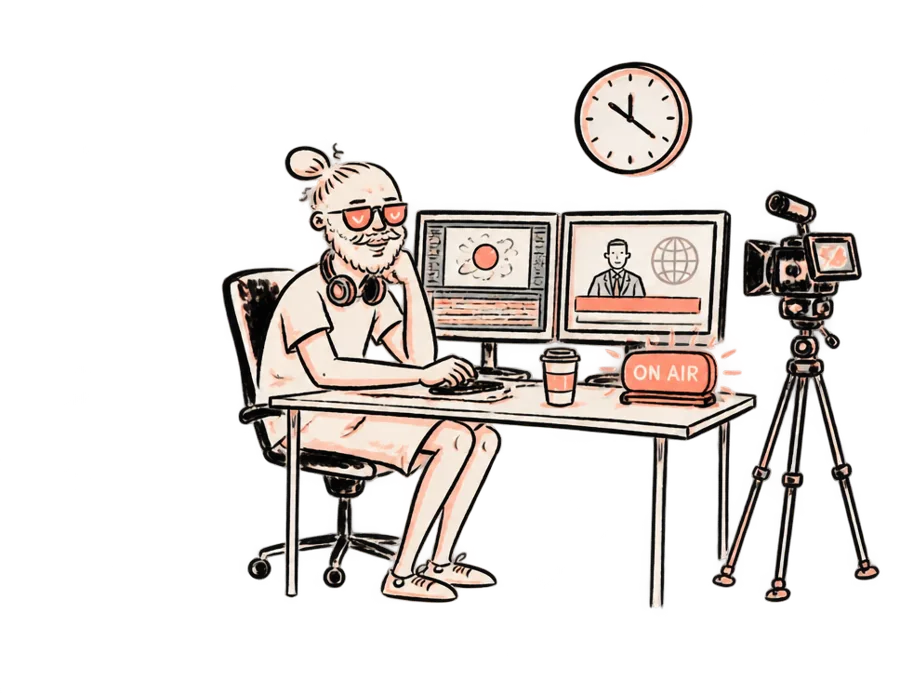
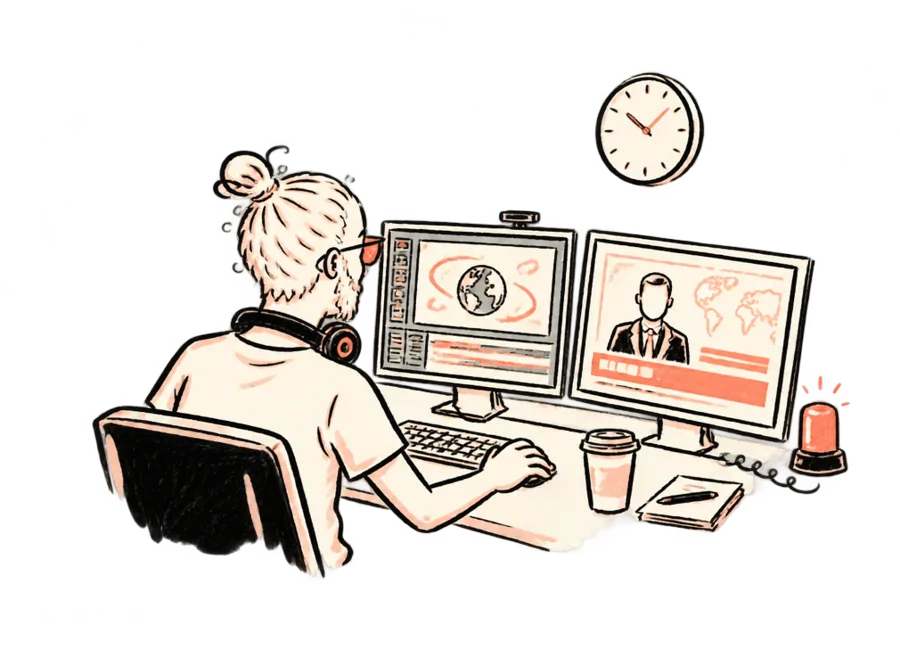
Experience as a comic with five characters (incl. the father), natural-view panels, sketchbook boards behind showcases, beige behind characters
Claude-Session: https://claude.ai/code/session_01FZ78mSfeXmiaoVRiho82hm

diff --git a/src/app/components/story/ExperienceComic.tsx b/src/app/components/story/ExperienceComic.tsx
@@ -1,0 +1,129 @@
+/*
+ * Experience as a comic. Five characters, all Ala'a: the designer, the teacher,
+ * the consultant, the content creator and the father. Pick one from the cast
+ * and read that character's storyline as comic panels along a drawn road.
+ */
+import { useState } from "react";
+import { AnimatePresence, motion } from "motion/react";
+import { useMode } from "../ModeContext";
+import { professionalTimelines, funTimelines, type TabKey, type TimelineEntry } from "../WorkExperienceSection";
+import { Journey } from "./Journey";
+import { Scribble } from "../ui/Kit";
+import { RoughBox } from "../ui/RoughBox";
+import charDesigner from "../../../assets/cast/designer.webp";
+import charTeacher from "../../../assets/cast/teacher.webp";
+import charConsultant from "../../../assets/cast/consultant.webp";
+import charCreator from "../../../assets/cast/creator.webp";
+import charFather from "../../../assets/cast/father.webp";
+
+type CastKey = TabKey | "father";
+
+const CAST: { k: CastKey; img: string; color: string; name: [string, string]; role: [string, string]; line: [string, string] }[] = [
+  { k: "main", img: charDesigner, color: "#ff614c", name: ["the designer", "the designer"], role: ["UX/UI, 15+ years, MENA", "pushes pixels for money"], line: ["Every product I touched, from couches to dashboards.", "From couches to dashboards. Long story. Six panels."] },
+  { k: "teaching", img: charTeacher, color: "#6A4CFF", name: ["the teacher", "the teacher"], role: ["universities, bootcamps, Zain, 42 Amman", "talks at people, professionally"], line: ["If I can't draw it for a room of beginners, I don't understand it yet.", "Sometimes they clap. Sometimes they want the Figma shortcuts."] },
+  { k: "consulting", img: charConsultant, color: "#53B858", name: ["the consultant", "the consultant"], role: ["audits, strategy, second opinions", "tells you what's wrong (nicely)"], line: ["Three things that matter, said kindly, then fixed together.", "You built a thing. Something feels off. I find it. I'm sorry in advance."] },
+  { k: "content", img: charCreator, color: "#FF4C79", name: ["the content creator", "the content creator"], role: ["@alaa_aliens, Ftoor Designer podcast", "draws UX jokes at 2am"], line: ["Hand-drawn UX explainers, and a podcast that made the top ten.", "Doodles that explain UX. It's therapy, honestly. For me."] },
+  { k: "father", img: charFather, color: "#FFC53D", name: ["the father", "the dad"], role: ["Alma & Eleen's product team", "two clients, zero budget"], line: ["My two toughest users. Everything I build at home is for them.", "They don't do UX feedback. They just say \"boring\" and leave."] },
+];
+
+const FATHER: Record<"pro" | "fun", { year: string; tag: string; title: string; description: string }[]> = {
+  pro: [
+    { year: "2026", tag: "Siba", title: "A study buddy with a face", description: "Textbook photos become parent-checked lessons, games and quizzes. A character, a voice, and a parent who always has the last word." },
+    { year: "2026", tag: "Siba List", title: "The allowance app", description: "Points instead of checkmarks, proof in the app, a timer for piano, and a Friday that stopped being an argument." },
+    { year: "2022", tag: "YES JO + Zain", title: "Teaching kids to design", description: "A yearly product design program for kids. Theirs are the most honest reviews I get." },
+    { year: "before", tag: "Dad", title: "Two daughters, two testers", description: "Alma plays the piano, Eleen plays guitar. Both review my work harder than any client." },
+  ],
+  fun: [
+    { year: "2026", tag: "Siba", title: "The study buddy", description: "Built them an app that says their names and never shows a red X. Alma asked if it could do her homework instead." },
+    { year: "2026", tag: "Siba List", title: "The allowance negotiations", description: "Points, a ladder, a free pass a week. Alma wanted a better exchange rate. Talks are ongoing." },
+    { year: "2022", tag: "YES JO + Zain", title: "Kids' design guru", description: "Taught kids product design. They're now better at Figma than most adults I know." },
+    { year: "before", tag: "Dad", title: "The two clients", description: "Alma on piano, Eleen on guitar, both on my case. Zero budget. Infinite scope." },
+  ],
+};
+
+function entries(k: CastKey, pro: boolean): TimelineEntry[] {
+  if (k === "father") return FATHER[pro ? "pro" : "fun"];
+  const t = (pro ? professionalTimelines : funTimelines)[k];
+  return [...t.leftEntries, ...t.rightEntries].sort((a, b) => Number(b.year) - Number(a.year));
+}
+
+export function ExperienceComic() {
+  const { isProfessional } = useMode();
+  const k = isProfessional ? 0 : 1;
+  const [who, setWho] = useState<CastKey>("main");
+  const c = CAST.find((x) => x.k === who)!;
+  const stops = entries(who, isProfessional).map((e) => ({ date: e.year, title: e.title, body: `${e.tag} · ${e.description}` }));
+
+  return (
+    <div className="flex flex-col gap-10 md:gap-14">
+      {/* the cast */}
+      <div>
+        <Scribble className="mb-3">{isProfessional ? "the cast (it's all me). pick one." : "the cast. all me. pick your fighter."}</Scribble>
+        <div className="grid grid-cols-3 sm:grid-cols-5 gap-3 md:gap-5" role="tablist">
+          {CAST.map((m, i) => {
+            const on = m.k === who;
+            return (
+              <motion.button
+                key={m.k}
+                role="tab"
+                aria-selected={on}
+                onClick={() => setWho(m.k)}
+                whileHover={{ y: -6, rotate: i % 2 ? 1.5 : -1.5 }}
+                whileTap={{ scale: 0.95 }}
+                animate={{ scale: on ? 1 : 0.94, opacity: on ? 1 : 0.7 }}
+                className="relative text-left"
+              >
+                <RoughBox fill={on ? `${m.color}2a` : "#fffaf1"} stroke={on ? m.color : "#1d1a17"} strokeWidth={on ? 2 : 1.2} radius={12} seed={i * 19 + 2} className="p-2 md:p-3 flex flex-col items-center gap-1.5">
+                  <img src={m.img} alt="" draggable={false} className="w-full aspect-square object-contain" />
+                  <span className="font-display lowercase text-[16px] md:text-[20px] leading-none text-center" style={{ color: on ? m.color : "#1d1a17" }}>{m.name[k]}</span>
+                  <span className="hidden sm:block font-['Work_Sans'] text-[10.5px] md:text-[11.5px] text-black/55 text-center leading-tight">{m.role[k]}</span>
+                </RoughBox>
+                {on && (
+                  <motion.span layoutId="cast-pick" className="absolute -top-2 -right-2 w-6 h-6 rounded-full border border-black bg-[#fffaf1] text-[12px] flex items-center justify-center" transition={{ type: "spring", stiffness: 400, damping: 24 }}>
+                    ★
+                  </motion.span>
+                )}
+              </motion.button>
+            );
+          })}
+        </div>
+      </div>
+
+      {/* the character's page */}
+      <AnimatePresence mode="wait">
+        <motion.section
+          key={who}
+          initial={{ opacity: 0, y: 24 }}
+          animate={{ opacity: 1, y: 0 }}
+          exit={{ opacity: 0, y: -16 }}
+          transition={{ duration: 0.35, ease: [0.22, 1, 0.36, 1] }}
+        >
+          <div className="grid md:grid-cols-[220px_1fr] gap-6 md:gap-10 items-center mb-12 md:mb-16">
+            <motion.img
+              src={c.img}
+              alt=""
+              className="w-[180px] md:w-[220px] mx-auto"
+              initial={{ scale: 0.7, rotate: -8 }}
+              animate={{ scale: 1, rotate: [-3, 3, -3] }}
+              transition={{ scale: { type: "spring", stiffness: 200, damping: 14 }, rotate: { duration: 4, repeat: Infinity, ease: "easeInOut" } }}
+            />
+            <div>
+              <h2 className="font-display lowercase text-[44px] md:text-[72px] leading-[0.95]" style={{ color: c.color }}>{c.name[k]}</h2>
+              <p className="font-['Work_Sans'] uppercase tracking-[0.16em] text-[12px] text-black/50 mt-2">{c.role[k]}</p>
+              <motion.p
+                initial={{ scale: 0, rotate: -6 }}
+                animate={{ scale: 1, rotate: -1.5 }}
+                transition={{ delay: 0.25, type: "spring", stiffness: 300, damping: 14 }}
+                className="relative inline-block mt-5 max-w-[520px] rounded-[18px] border-2 border-[#1d1a17] bg-white px-5 py-3 font-['Shantell_Sans',cursive] text-[16px] md:text-[18px] leading-snug shadow-[3px_3px_0_0_#1d1a17]"
+              >
+                {c.line[k]}
+                <span aria-hidden className="absolute -left-2.5 top-6 w-4 h-4 bg-white border-l-2 border-b-2 border-[#1d1a17] rotate-45" />
+              </motion.p>
+            </div>
+          </div>
+          <Journey stops={stops} color={c.color} />
+        </motion.section>
+      </AnimatePresence>
+    </div>
+  );
+}

diff --git a/src/app/components/Phone.tsx b/src/app/components/Phone.tsx
@@ -1,5 +1,6 @@
 import { AnimatePresence, motion, useScroll, useTransform } from "motion/react";
 import { useEffect, useRef, useState } from "react";
+import { StickerArt } from "./play/Stickers";
 
 /** A simple phone frame around a screenshot. */
 export function Phone({ src, alt, className = "" }: { src: string; alt: string; className?: string }) {
@@ -27,9 +28,10 @@ export function PhoneFan({ shots, color }: { shots: { src: string; alt: string }
   return (
     <div
       ref={ref}
-      className="relative w-full overflow-hidden rounded-[10px] border border-black/10 py-10 md:py-16"
-      style={{ background: `radial-gradient(120% 90% at 50% 100%, ${color}40, ${color}12 60%, transparent)` }}
+      className="relative w-full overflow-hidden rounded-[18px] border border-dashed border-black/30 bg-[#fffaf1]/60 py-10 md:py-16"
+      style={{ backgroundImage: "repeating-linear-gradient(transparent 0 31px, rgba(29,26,23,.08) 31px 32px)" }}
     >
+      <Pins color={color} />
       <div className="relative mx-auto flex items-end justify-center gap-0 w-full max-w-[860px] px-4">
         {a && (
           <motion.div style={{ rotate: rotL, x: xL }} className="w-[30%] max-w-[240px] origin-bottom-right translate-y-6">
@@ -82,12 +84,23 @@ export function PhoneRow({ shots }: { shots: { src: string; alt: string; caption
   );
 }
 
+/** A few doodles pinned in the corners of a showcase board. */
+function Pins({ color }: { color: string }) {
+  return (
+    <>
+      <span aria-hidden className="absolute left-4 top-4 rotate-[-12deg]"><StickerArt kind="star" size={30} /></span>
+      <span aria-hidden className="absolute right-5 top-6 rotate-[10deg]"><StickerArt kind="bolt" size={28} /></span>
+      <svg aria-hidden className="absolute right-6 bottom-5 w-[90px] h-[26px]" viewBox="0 0 90 26" fill="none"><path d="M3 18 C 25 4, 50 24, 86 8" stroke={color} strokeWidth="3" strokeLinecap="round" /></svg>
+    </>
+  );
+}
+
 /* ───────────── Desktop products ───────────── */
 
 /** A browser-window frame around a desktop screenshot. */
 export function Browser({ src, alt, className = "", url }: { src: string; alt: string; className?: string; url?: string }) {
   return (
-    <div className={`relative rounded-[10px] md:rounded-[14px] border border-[#1d1a17] bg-[#fffaf1] overflow-hidden shadow-[4px_4px_0_0_#1d1a17] ${className}`}>
+    <div className={`relative rounded-[10px] md:rounded-[14px] border border-[#1d1a17] bg-[#fffaf1] overflow-hidden ${className}`}>
       <div className="flex items-center gap-2 px-3 h-7 md:h-8 border-b-2 border-[#1d1a17] bg-[#fdecd0]">
         <span className="flex gap-1.5" aria-hidden>
           <i className="block w-2.5 h-2.5 rounded-full border-[1.5px] border-[#1d1a17] bg-[#ff614c]" />
@@ -118,8 +131,8 @@ export function BrowserShowcase({ shots, color, url }: { shots: { src: string; a
   const tabName = (s: { alt: string; tab?: string }, k: number) => s.tab ?? s.alt.split(":")[0].replace(/^[^ ]+ /, "").trim() ?? `screen ${k + 1}`;
   return (
     <div
-      className="relative w-full rounded-[10px] pt-8 md:pt-12 px-3 md:px-10 pb-0"
-      style={{ background: `radial-gradient(120% 90% at 50% 100%, ${color}40, ${color}12 60%, transparent)` }}
+      className="relative w-full rounded-[18px] border border-dashed border-black/30 border-b-0 bg-[#fffaf1]/60 pt-8 md:pt-12 px-3 md:px-10 pb-0 overflow-hidden"
+      style={{ backgroundImage: "repeating-linear-gradient(transparent 0 31px, rgba(29,26,23,.08) 31px 32px)" }}
       onMouseEnter={() => setPaused(true)}
       onMouseLeave={() => setPaused(false)}
     >

diff --git a/src/app/pages/ExperiencePage.tsx b/src/app/pages/ExperiencePage.tsx
@@ -1,7 +1,7 @@
 import { motion } from "motion/react";
 import { useMode } from "../components/ModeContext";
 import { DoodleTitle } from "../components/play/DoodleTitle";
-import { WorkExperienceSection } from "../components/WorkExperienceSection";
+import { ExperienceComic } from "../components/story/ExperienceComic";
 import { Doodle, Reveal } from "../components/motion/Doodles";
 import { Eyebrow, NextTiles, PaperCard, Prose, Scribble } from "../components/ui/Kit";
 import { StickerArt } from "../components/play/Stickers";
@@ -25,18 +25,18 @@ export function ExperiencePage() {
       <section className="relative w-full max-w-[1200px] mx-auto px-5 md:px-12 pt-[110px] md:pt-[160px]">
         <Doodle kind="zigzag" className="right-6 md:right-32 top-[100px]" size={40} color="#FF9F1C" />
         <Reveal y={12}><Eyebrow className="mb-3">{isProfessional ? "Experience" : "The lore"}</Eyebrow></Reveal>
-        <DoodleTitle as="h1" text={isProfessional ? "Where I've {head} been" : "How I got {head} here"} className="text-[42px] md:text-[80px]" />
+        <DoodleTitle as="h1" text={isProfessional ? "where i've {star} been" : "how i got {star} here"} className="text-[42px] md:text-[80px]" />
         <Reveal delay={0.15}>
           <Prose lead className="mt-6 max-w-[700px]">
             {isProfessional
-              ? "Four timelines, because the work never stayed in one lane: the main career, the teaching, the consulting, and the drawing that turned into content."
-              : "Four timelines, because I can't stay in one lane. Tabs are below. Yes, the PlayStation years count."}
+              ? "Five characters, all me: the designer, the teacher, the consultant, the content creator and the father. Pick one and read their storyline."
+              : "Five versions of me. Pick one. The dad one has the harshest reviews."}
           </Prose>
         </Reveal>
       </section>
 
       <div className="w-full max-w-[1200px] mx-auto px-5 md:px-12 flex flex-col gap-24 md:gap-32 mt-12 md:mt-16">
-        <WorkExperienceSection embedded />
+        <ExperienceComic />
 
         {/* Clients wall */}
         <section>

diff --git a/src/app/components/story/ComicStrip.tsx b/src/app/components/story/ComicStrip.tsx
@@ -295,7 +295,7 @@ export function ComicStrip() {
               viewport={{ once: true, margin: "-40px" }}
               transition={{ type: "spring", stiffness: 160, damping: 18, delay: Math.min(i, 3) * 0.08 }}
             >
-              <div className="relative aspect-[240/300] bg-[#fffaf1]">
+              <div className="relative aspect-[240/300] bg-[#fdecd0]">
                 <svg viewBox="0 0 240 300" className="absolute inset-0 w-full h-full overflow-visible" fill="none" aria-hidden>
                   {frames[i].map((q, k) => (
                     <motion.path key={k} d={q.d} stroke={q.stroke} strokeWidth={q.strokeWidth} fill="none" strokeLinecap="round" initial={{ pathLength: 0 }} whileInView={{ pathLength: 1 }} viewport={{ once: true }} transition={{ duration: 0.7, delay: 0.1 }} />
@@ -372,7 +372,7 @@ export function ComicStrip() {
                   </div>
                   <div className="grid md:grid-cols-[1.1fr_1fr] gap-6 md:gap-10 mt-5 items-start">
                     {/* big panel with a speech bubble */}
-                    <div className="relative border-[3px] border-[#1d1a17] bg-[#fffaf1] p-4 md:p-6" style={{ borderRadius: "12px 180px 12px 200px / 200px 12px 180px 12px" }}>
+                    <div className="relative border-[3px] border-[#1d1a17] bg-[#fdecd0] p-4 md:p-6" style={{ borderRadius: "12px 180px 12px 200px / 200px 12px 180px 12px" }}>
                       <motion.img
                         src={p.img}
                         alt=""

diff --git a/src/app/components/WorkExperienceSection.tsx b/src/app/components/WorkExperienceSection.tsx
@@ -4,7 +4,7 @@ import { motion, AnimatePresence } from "motion/react";
 import squigglySvg from "../../imports/svg-zqq9sgn0jp";
 import { SectionTitle } from "./motion/Doodles";
 
-interface TimelineEntry {
+export interface TimelineEntry {
   year: string;
   tag: string;
   title: string;
@@ -12,13 +12,13 @@ interface TimelineEntry {
   link?: string;
 }
 
-interface TimelineData {
+export interface TimelineData {
   label: string;
   leftEntries: TimelineEntry[];
   rightEntries: TimelineEntry[];
 }
 
-type TabKey = "main" | "teaching" | "consulting" | "content";
+export type TabKey = "main" | "teaching" | "consulting" | "content";
 
 // Per-tab accent colors
 const tabAccentColors: Record<TabKey, string> = {
@@ -28,7 +28,7 @@ const tabAccentColors: Record<TabKey, string> = {
   content: "#FF4C79",
 };
 
-const professionalTimelines: Record<TabKey, TimelineData> = {
+export const professionalTimelines: Record<TabKey, TimelineData> = {
   main: {
     label: "Main Career",
     leftEntries: [
@@ -84,7 +84,7 @@ const professionalTimelines: Record<TabKey, TimelineData> = {
   },
 };
 
-const funTimelines: Record<TabKey, TimelineData> = {
+export const funTimelines: Record<TabKey, TimelineData> = {
   main: {
     label: "Main Career",
     leftEntries: [

diff --git a/src/app/pages/ContactPage.tsx b/src/app/pages/ContactPage.tsx
@@ -216,10 +216,11 @@ export function ContactPage() {
           animate={{ opacity: 1, x: 0 }}
           transition={{ type: "spring", stiffness: 120, damping: 16, delay: 0.2 }}
         >
+          <span aria-hidden className="absolute inset-x-[6%] bottom-[4%] top-[18%] rounded-[50%] bg-[#fdecd0] border border-[#1d1a17]/15" />
           <motion.img
             src={imgContact}
             alt="Ala'a sitting on the floor, throwing a paper plane, with his cat"
-            className="w-full h-auto"
+            className="relative w-full h-auto"
             animate={flying || landed ? { rotate: [0, -4, 3, 0], scale: [1, 1.04, 1] } : { y: [0, -5, 0] }}
             transition={flying || landed ? { duration: 0.8, delay: 1.1 } : { duration: 3.5, repeat: Infinity, ease: "easeInOut" }}
           />
